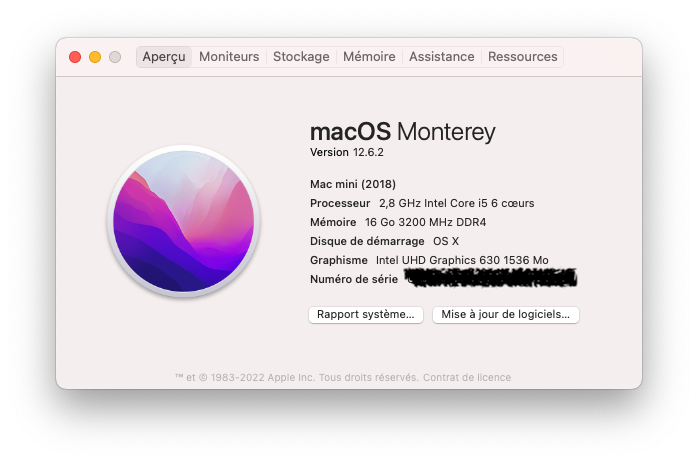
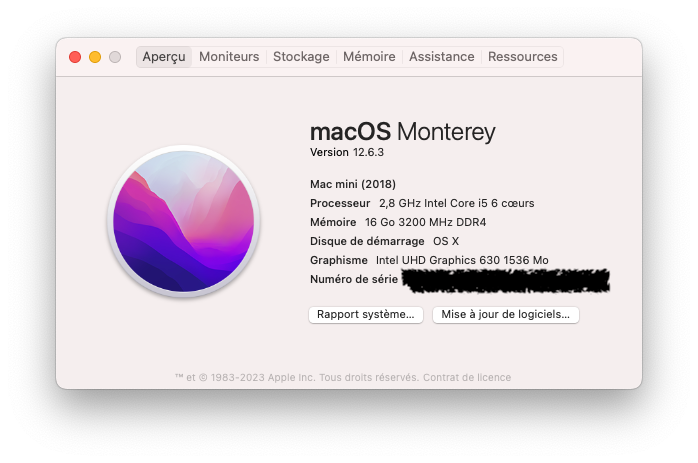
Upgrade macOS Monterey to 12.6.3

Changed region(s): [[0.5716, 0.5745, 0.8725, 0.635]]

diff --git a/README.md b/README.md
@@ -1,6 +1,6 @@
 # Hackintosh
 
-A Hackintosh running macOS Monterey 12.6.2 with a i5-8400 and a Gigabyte Z370-HD3P.
+A Hackintosh running macOS Monterey 12.6.3 with a i5-8400 and a Gigabyte Z370-HD3P.
 
 ![System spec](Pictures/system.png)
 
@@ -39,7 +39,7 @@ If you're curious, I changed two things in my `config.plist` to fix Catalina:
 
 I built my Hackintosh because I was disappointed with the price of the new Mac Mini 2018. Its configuration is close to the new mid-entry Mac Mini but with more RAM (16 instead of 8 Gb). Here are the specs:
 
-- macOS Monterey 12.6.2
+- macOS Monterey 12.6.3
 - Intel i5-8400 (6 cores @ 2.80 Ghz, 3.80 Ghz Turbo Boost)
 - Gigabyte Z370-HD3P
 - Corsair Vengeance LPX 16Gb (2x8Gb) DDR4 2666MHz OC @ 3200 Mhz (CMK16GX4M2A2666C16)
@@ -66,7 +66,7 @@ I'm running the BIOS **F14a** version. You can find my BIOS Settings with pictur
 
 ## My EFI
 
-* **OpenCore version**: v0.8.7
+* **OpenCore version**: v0.8.8
 * **UEFI Drivers** (now located in `EFI/OC/Drivers`):
     * _HFSPlus.efi_
     * _OpenCanopy.efi_
